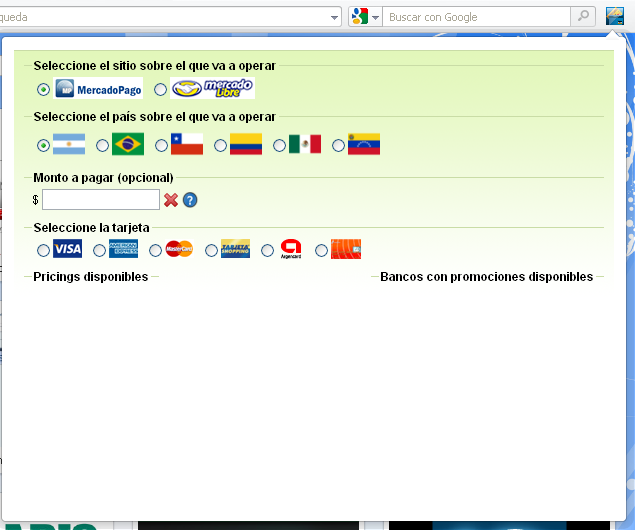
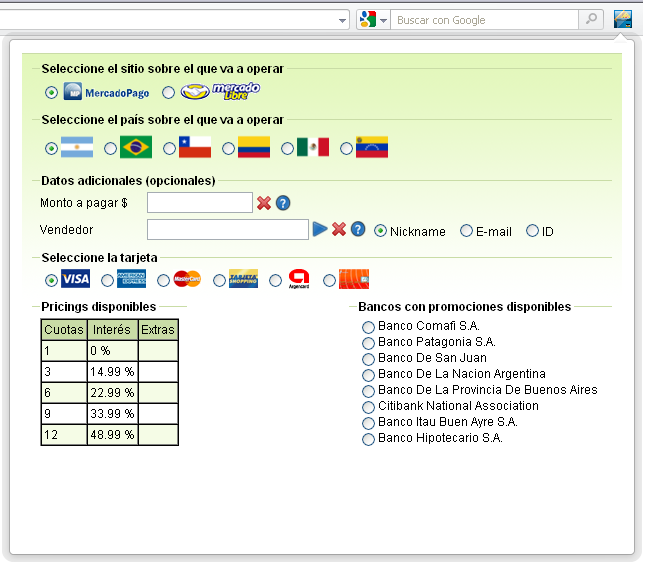
Bumped version for next release

Changed region(s): [[0.0, 0.0, 1.0, 1.0]]

diff --git a/README.md b/README.md
@@ -10,11 +10,12 @@ Description
 
 This extension allows you to quickly view active installments schemes to make credit card payments in MercadoPago and MercadoLibre.
 
-Just need to select the right website, the country where you reside and the card you want use to pay to see the current plans. You can optionally enter the amount you are planning to pay, to calculate what the total amount with interest is and the individual amounts for each installments plan.
+Just need to select the right website, the country where you reside and the card you want use to pay to see the current plans. You can optionally enter the amount you are planning to pay, to calculate what the total amount with interest is and the individual amounts for each installments plan. Also, if you know the nickname or e-mail from your seller, you can check if he has his own personalized promotions (only for big sellers).
 
 Changelog
 ---------
 
+* 1.1.0 - Support for seller's custom promotions. Graphical/usability improvements.
 * 1.0.2 - Compatible with Opera 11.60 and 12.00
 * 1.0.1 - Changed error message when MercadoLibre's API seems to be down
 * 1.0.0 - Initial release
